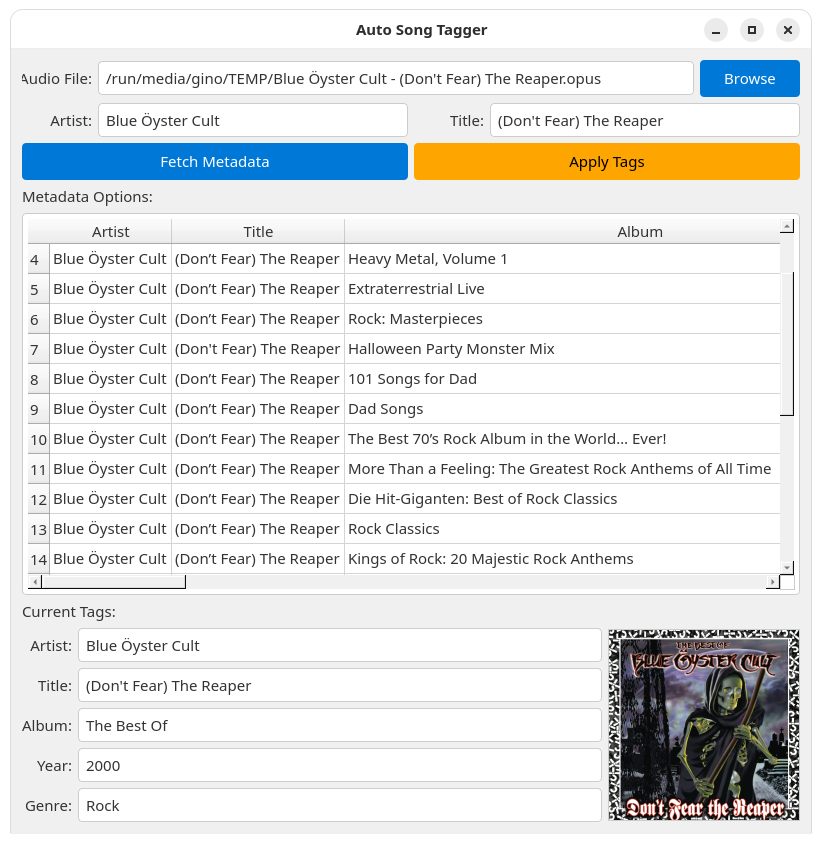
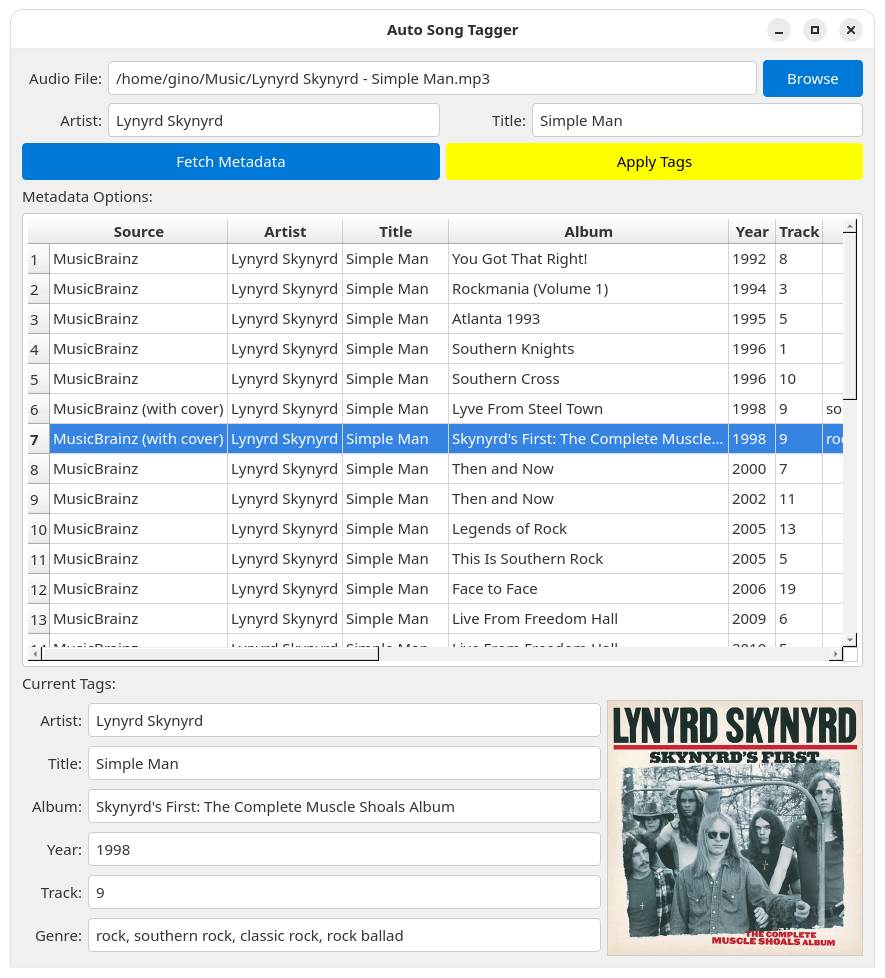
Refactor: Integrate multiple APIs, enhance UI, and improve dependency management
- Fixed ModuleNotFoundError for 'requests' by adding it to requirements.txt.
- Removed 'api_section' and directly integrated MusicBrainz and other public APIs for metadata fetching.
- Removed unused imports to streamline the codebase.
- Updated comments and README.md to accurately list all public APIs used (MusicBrainz, TheAudioDB, Deezer, Lyrics.ovh).
- Changed 'Apply Tags' button background color to yellow for improved UI.
- Introduced 'requirements_dev-only.txt' for development dependencies and updated .gitignore to exclude it from version control.

diff --git a/auto_song_tagger.py b/auto_song_tagger.py
@@ -1,23 +1,23 @@
 #!/usr/bin/env python3
 """
-A GUI application for automatically tagging audio files using MusicBrainz metadata.
+A GUI application for automatically tagging audio files using MusicBrainz,
+TheAudioDB, Deezer, and Lyrics.ovh APIs.
 
 Author: Gino Bogo
 
-Features:
-- Select audio files (MP3 or Opus)
-- Parse artist and title from filename
-- Fetch metadata from MusicBrainz
-- Display current file tags
-- Choose from multiple metadata options
-- Apply selected metadata as tags
-- Handle cover art
+Features: - Select audio files (MP3 or Opus) - Parse artist and title from
+filename - Fetch metadata from MusicBrainz and public APIs - Display current
+file tags - Choose from multiple metadata options - Apply selected metadata as
+tags - Handle cover art from multiple sources
 """
 
 import base64
 import os
 import sys
 import configparser
+import requests
+
+from typing import Optional
 
 import musicbrainzngs
 
@@ -57,6 +57,139 @@ CONFIG_FILE_NAME = "auto_song_tagger.cfg"
 
 # MusicBrainz client setup
 musicbrainzngs.set_useragent("AutoSongTagger", "0.1", "your-email@example.com")
+
+# =============================================================================
+# PUBLIC MUSIC APIs
+# =============================================================================
+
+
+class PublicMusicAPIs:
+    """Manages public music APIs that don't require authentication."""
+
+    def search_audiodb(self, artist: str, title: str) -> list[dict]:
+        """Search TheAudioDB API (free, no authentication required)."""
+        try:
+            url = "https://theaudiodb.com/api/v1/json/2/searchtrack.php"
+            params = {"s": artist, "t": title}
+            response = requests.get(url, params=params, timeout=10)
+            if response.status_code == 200:
+                data = response.json()
+                results = []
+                tracks = data.get("track", [])
+                for track in tracks:
+                    # Extract year from release date
+                    year = ""
+                    release_date = track.get("intYearReleased", "")
+                    if release_date and len(str(release_date)) >= 4:
+                        year = str(release_date)[:4]
+
+                    results.append(
+                        {
+                            "title": track.get("strTrack", ""),
+                            "artist": track.get("strArtist", ""),
+                            "album": track.get("strAlbum", ""),
+                            "year": year,
+                            "track": track.get("strTrackNumber", ""),
+                            "genre": track.get("strGenre", ""),
+                            "cover_url": track.get("strTrackThumb", "")
+                            or track.get("strAlbumThumb", ""),
+                            "source": "TheAudioDB",
+                        }
+                    )
+                return results
+        except Exception as e:
+            print(f"TheAudioDB search error: {e}")
+        return []
+
+    def search_lrcat(self, artist: str, title: str) -> list[dict]:
+        """Search Lyrics.ovh API for basic track info."""
+        try:
+            # First try to get lyrics which often includes basic metadata
+            url = f"https://api.lyrics.ovh/v1/{artist}/{title}"
+            response = requests.get(url, timeout=10)
+            if response.status_code == 200:
+                # If we get lyrics, create basic metadata entry
+                return [
+                    {
+                        "title": title,
+                        "artist": artist,
+                        "album": "",
+                        "year": "",
+                        "track": "",
+                        "genre": "",
+                        "source": "Lyrics.ovh",
+                        "has_lyrics": True,
+                    }
+                ]
+        except Exception as e:
+            print(f"Lyrics.ovh search error: {e}")
+        return []
+
+    def search_musicbrainz_cover_art(self, release_id: str) -> Optional[str]:
+        """Get cover art from MusicBrainz Cover Art Archive."""
+        try:
+            url = f"https://coverartarchive.org/release/{release_id}"
+            response = requests.get(url, timeout=10)
+            if response.status_code == 200:
+                data = response.json()
+                images = data.get("images", [])
+                if images:
+                    # Get the first front cover, or first image if no front cover
+                    front_covers = [img for img in images if img.get("front", False)]
+                    if front_covers:
+                        return front_covers[0].get("image")
+                    else:
+                        return images[0].get("image")
+        except Exception as e:
+            print(f"Cover Art Archive error: {e}")
+        return None
+
+    def search_deezer(self, artist: str, title: str) -> list[dict]:
+        """Search Deezer API (limited free access without credentials)."""
+        try:
+            url = "https://api.deezer.com/search"
+            params = {"q": f'artist:"{artist}" track:"{title}"', "limit": 5}
+            response = requests.get(url, params=params, timeout=10)
+            if response.status_code == 200:
+                data = response.json()
+                results = []
+                for track in data.get("data", []):
+                    album = track.get("album", {})
+
+                    # Extract year from release date
+                    year = ""
+                    release_date = track.get("release_date", "")
+                    if release_date and len(release_date) >= 4:
+                        year = release_date[:4]
+
+                    results.append(
+                        {
+                            "title": track.get("title", ""),
+                            "artist": track.get("artist", {}).get("name", ""),
+                            "album": album.get("title", ""),
+                            "year": year,
+                            "track": str(track.get("track_position", "")),
+                            "genre": "",  # Deezer doesn't provide genre in search results
+                            "cover_url": album.get("cover_medium", "")
+                            or album.get("cover", ""),
+                            "source": "Deezer",
+                        }
+                    )
+                return results
+        except Exception as e:
+            print(f"Deezer search error: {e}")
+        return []
+
+    def download_cover_art(self, url: str) -> Optional[bytes]:
+        """Download cover art from URL."""
+        try:
+            response = requests.get(url, timeout=10)
+            if response.status_code == 200:
+                return response.content
+        except Exception as e:
+            print(f"Error downloading cover art: {e}")
+        return None
+
 
 # =============================================================================
 # THREADING CLASSES
@@ -100,15 +233,58 @@ class MetadataFetcherThread(QThread):
     """QThread for fetching metadata in a separate thread."""
 
     finished = Signal(list)  # Signal(metadata_options)
+    progress_signal = Signal(str)  # Signal for progress messages
 
-    def __init__(self, artist: str, title: str, parent: QWidget | None = None):
+    def __init__(
+        self,
+        artist: str,
+        title: str,
+        use_public_apis: bool = False,
+        parent: QWidget | None = None,
+    ):
         super().__init__(parent)
         self.artist = artist
         self.title = title
+        self.use_public_apis = use_public_apis
+        self.public_apis = PublicMusicAPIs() if use_public_apis else None
 
     def run(self):
         """Main thread execution method."""
-        metadata_options = fetch_song_metadata(self.artist, self.title)
+        metadata_options = []
+
+        # First try MusicBrainz
+        self.progress_signal.emit("Searching MusicBrainz...")
+        musicbrainz_results = fetch_song_metadata(self.artist, self.title)
+
+        # Enhance MusicBrainz results with cover art
+        for result in musicbrainz_results:
+            # Try to get cover art for MusicBrainz results
+            if "release_id" in result and self.public_apis:
+                cover_url = self.public_apis.search_musicbrainz_cover_art(
+                    result["release_id"]
+                )
+                if cover_url:
+                    result["cover_url"] = cover_url
+                    result["source"] = "MusicBrainz (with cover)"
+
+        metadata_options.extend(musicbrainz_results)
+
+        # Then try public APIs if enabled
+        if self.use_public_apis and self.public_apis:
+            self.progress_signal.emit("Searching TheAudioDB...")
+            audiodb_results = self.public_apis.search_audiodb(self.artist, self.title)
+            metadata_options.extend(audiodb_results)
+
+            self.progress_signal.emit("Searching Deezer...")
+            deezer_results = self.public_apis.search_deezer(self.artist, self.title)
+            metadata_options.extend(deezer_results)
+
+            # Only use Lyrics.ovh if no other results found
+            if not metadata_options:
+                self.progress_signal.emit("Searching Lyrics.ovh...")
+                lyrics_results = self.public_apis.search_lrcat(self.artist, self.title)
+                metadata_options.extend(lyrics_results)
+
         self.finished.emit(metadata_options)
 
 
@@ -224,6 +400,12 @@ def _process_recording(recording: dict, artist: str, release_cache: dict) -> dic
 
     genre = _get_genre(recording)
 
+    # Store release_id for cover art lookup
+    release_id = ""
+    if "release-list" in recording and recording["release-list"]:
+        chosen_release = _choose_release(recording["release-list"])
+        release_id = chosen_release.get("id", "")
+
     return {
         "title": recording.get("title", ""),
         "artist": artist,
@@ -231,6 +413,9 @@ def _process_recording(recording: dict, artist: str, release_cache: dict) -> dic
         "year": year,
         "track": track,
         "genre": genre,
+        "source": "MusicBrainz",
+        "release_id": release_id,
+        "cover_url": None,  # Will be populated later if available
     }
 
 
@@ -464,6 +649,7 @@ class AutoSongTaggerUI(QWidget):
         self.metadata_options = []
         self.tag_writer_thread = None
         self.metadata_fetcher_thread = None
+        self.public_apis = PublicMusicAPIs()
 
         # Declare UI elements for static analysis
         self.current_artist_input: QLineEdit
@@ -651,9 +837,9 @@ class AutoSongTaggerUI(QWidget):
 
         self.results_label = QLabel("Metadata Options:")
         self.results_list = QTableWidget()
-        self.results_list.setColumnCount(6)  # Artist, Title, Album, Year, Track, Genre
+        self.results_list.setColumnCount(7)  # Added Source column
         self.results_list.setHorizontalHeaderLabels(
-            ["Artist", "Title", "Album", "Year", "Track", "Genre"]
+            ["Source", "Artist", "Title", "Album", "Year", "Track", "Genre"]
         )
 
         header = self.results_list.horizontalHeader()
@@ -812,7 +998,7 @@ class AutoSongTaggerUI(QWidget):
                 self.parse_filename_for_artist_title()
                 self.results_list.clear()
                 self.results_list.setHorizontalHeaderLabels(
-                    ["Artist", "Title", "Album", "Year", "Track", "Genre"]
+                    ["Source", "Artist", "Title", "Album", "Year", "Track", "Genre"]
                 )
                 self.apply_button.setEnabled(False)
 
@@ -1028,7 +1214,7 @@ class AutoSongTaggerUI(QWidget):
     # =========================================================================
 
     def fetch_metadata(self):
-        """Fetch metadata from MusicBrainz and populate results list."""
+        """Fetch metadata from MusicBrainz and/or public APIs and populate results list."""
         artist = self.artist_input.text().strip()
         title = self.title_input.text().strip()
 
@@ -1052,9 +1238,15 @@ class AutoSongTaggerUI(QWidget):
         self.progress_bar.setFormat("Fetching metadata...")
         self.progress_bar.show()
 
+        # Always use public APIs
+        use_public_apis = True
+
         # Create and start the metadata fetcher thread
-        self.metadata_fetcher_thread = MetadataFetcherThread(artist, title)
+        self.metadata_fetcher_thread = MetadataFetcherThread(
+            artist, title, use_public_apis
+        )
         self.metadata_fetcher_thread.finished.connect(self._on_metadata_fetched)
+        self.metadata_fetcher_thread.progress_signal.connect(self._on_progress_update)
         self.metadata_fetcher_thread.start()
 
     def _on_metadata_fetched(self, metadata_options: list[dict]):
@@ -1084,9 +1276,9 @@ class AutoSongTaggerUI(QWidget):
             self.results_list.insertRow(row_position)
 
             # Create non-editable items for each field
-            fields = ["artist", "title", "album", "year", "track", "genre"]
+            fields = ["source", "artist", "title", "album", "year", "track", "genre"]
             for col, field in enumerate(fields):
-                item = QTableWidgetItem(meta[field])
+                item = QTableWidgetItem(meta.get(field, ""))
                 item.setFlags(item.flags() & ~Qt.ItemFlag.ItemIsEditable)
                 self.results_list.setItem(row_position, col, item)
 
@@ -1102,15 +1294,24 @@ class AutoSongTaggerUI(QWidget):
 
             # Get data from selected row
             field_data = {}
-            fields = ["artist", "title", "album", "year", "track", "genre"]
+            fields = ["source", "artist", "title", "album", "year", "track", "genre"]
 
             for col, field in enumerate(fields):
                 item = self.results_list.item(selected_row, col)
                 field_data[field] = item.text() if item else ""
 
             # Populate current tag display fields
-            for field, value in field_data.items():
-                getattr(self, f"current_{field}_input").setText(value)
+            for field in ["artist", "title", "album", "year", "track", "genre"]:
+                getattr(self, f"current_{field}_input").setText(
+                    field_data.get(field, "")
+                )
+
+            # If this result has cover art, download and display it
+            if selected_row < len(self.metadata_options):
+                metadata = self.metadata_options[selected_row]
+                cover_url = metadata.get("cover_url")
+                if cover_url:
+                    self._download_and_display_cover(cover_url)
 
             # Update button state
             self._on_current_tag_text_changed()
@@ -1121,6 +1322,28 @@ class AutoSongTaggerUI(QWidget):
                 getattr(self, f"current_{field}_input").clear()
             # Update button state
             self._on_current_tag_text_changed()
+
+    def _download_and_display_cover(self, cover_url: str):
+        """Download and display cover art from URL."""
+        if cover_url:
+            # Show loading message
+            self.disc_cover_label.setText("Downloading cover...")
+
+            # Download cover art
+            cover_data = self.public_apis.download_cover_art(cover_url)
+            if cover_data:
+                self._new_cover_data = cover_data
+                pixmap = QPixmap()
+                pixmap.loadFromData(cover_data)
+                scaled_pixmap = pixmap.scaled(
+                    self.disc_cover_label.size(),
+                    Qt.AspectRatioMode.KeepAspectRatio,
+                    Qt.TransformationMode.SmoothTransformation,
+                )
+                self.disc_cover_label.setPixmap(scaled_pixmap)
+                self.disc_cover_label.setText("")  # Clear text if image loaded
+            else:
+                self.disc_cover_label.setText("Failed to download cover")
 
     def apply_tags(self):
         """Apply selected metadata as tags to audio file and refresh UI."""

diff --git a/README.md b/README.md
@@ -1,13 +1,13 @@
 # AutoSongTagger
 
 ## Description
-AutoSongTagger is a Python GUI application designed to automatically tag and organize your music collection. It leverages MusicBrainz metadata and provides a user-friendly interface to fetch, select, and apply accurate information to your audio files (MP3 and Opus), making your music library easily searchable and browsable.
+AutoSongTagger is a Python GUI application designed to automatically tag and organize your music collection. It leverages metadata from MusicBrainz and other public music APIs (TheAudioDB, Deezer, Lyrics.ovh), and provides a user-friendly interface to fetch, select, and apply accurate information to your audio files (MP3 and Opus), making your music library easily searchable and browsable.
 
 ## Features
 - **GUI Application:** User-friendly interface for tagging audio files.
 - **File Selection:** Allows selection of MP3 and Opus audio files.
 - **Filename Parsing:** Automatically parses artist and title from filenames (e.g., "Artist - Title.mp3").
-- **MusicBrainz Integration:** Fetches comprehensive metadata (artist, title, album, year, genre) from MusicBrainz.
+- **Metadata Integration:** Fetches comprehensive metadata (artist, title, album, year, genre) from MusicBrainz, TheAudioDB, Deezer, and Lyrics.ovh.
 - **Current Tag Display:** Displays existing tags and album cover art of the selected file.
 - **Metadata Options:** Presents multiple metadata suggestions from MusicBrainz for user selection.
 - **Tag Application:** Applies selected metadata as tags to the audio file.
